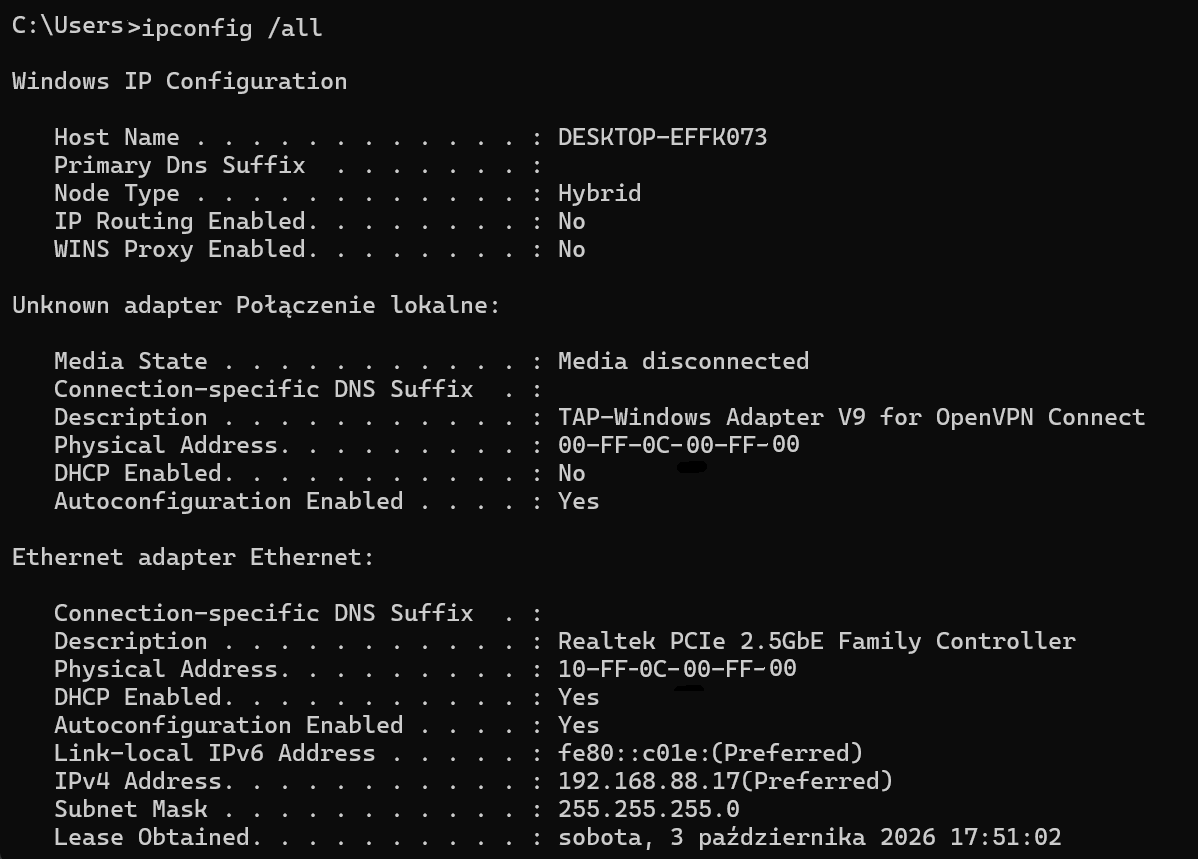
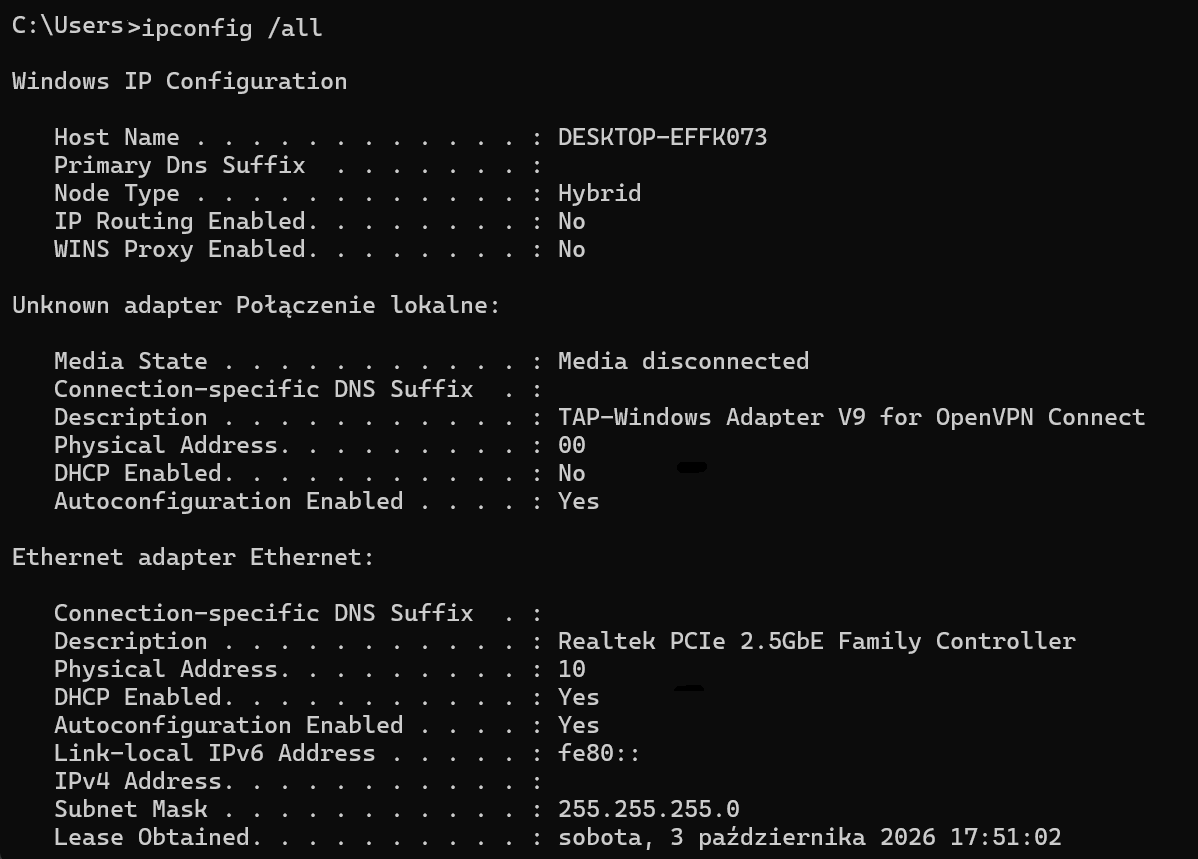
lab3 - v2

Changed region(s): [[0.4633, 0.8475, 0.7412, 0.9383], [0.4942, 0.7567, 0.6795, 0.787], [0.4942, 0.5146, 0.6795, 0.5448]]

diff --git a/docs/cwiczenie-03.md b/docs/cwiczenie-03.md
@@ -124,8 +124,9 @@ Rys.2 Mechanizm wykorzystania bramy domyślnej [^comer][^claude]
 
 ---
 
-**ICMP (Internet Control Message Protocol)** to protokół towarzyszący IP, zdefiniowany w RFC 792 [^RFC792], służący do przesyłania komunikatów kontrolnych i błędów, a nie danych użytkownika. ICMP nie ma portów ani sesji, komunikaty ICMP są zwykle generowane automatycznie przez stos sieciowy w reakcji na problem z dostarczeniem pakietu IP.
+**ICMP (Internet Control Message Protocol)** to protokół towarzyszący IP, zdefiniowany w RFC 792 [^RFC792], służący do przesyłania komunikatów kontrolnych i błędów, a nie danych użytkownika. ICMP nie ma portów ani sesji, komunikaty ICMP są zwykle generowane automatycznie przez stos sieciowy w reakcji na problem z dostarczeniem pakietu IP (Tabela 1).
 
+Tab. 1 Komunikaty ICMP
 | Typ     | Nazwa     | Zastosowanie |
 |---------|---------|-----------------------|
 | 0/8       | Echo Reply/Echo Request    | polecenie **ping** - sprawdzenie osiągalności hosta             |
@@ -182,7 +183,7 @@ A8<sub>16</sub> = 10 · 16<sup>1</sup> + 8 · 16<sup>0</sup> = 160 + 8 = 168
 <StepByStep>
 
 <Step title="Odczytanie konfiguracji IP">
-Sprawdź aktualną konfigurację adresu IP, maski i bramy domyślnej swojej stacji (adres 10.114.202.x - Ethernet0) (Rysunek 3). Wykorzystując polecenie w **Wierszu poleceń** (Start ⇒ Wyszukaj programy i pliki ⇒ cmd) i  wypełnij tabellę.
+Sprawdź aktualną konfigurację adresu IP, maski i bramy domyślnej swojej stacji (adres 10.x.x.x - Ethernet1) (Rysunek 3). Wykorzystując polecenie w **Wierszu poleceń** (Start ⇒ Wyszukaj programy i pliki ⇒ cmd) i wypełnij Tabelę 2.
 
 ```bash
 ipconfig /all
@@ -194,7 +195,7 @@ Rys.3 Komenda ipconfig
 </div>
 
 <EditableTable
-  title="Konfiguracja karty sieciowej"
+  title="Tab.2 Konfiguracja karty sieciowej"
   storageKey="tabela"
   columns={[
     {key: 'parametr', label: 'Parametr', readOnly: true},
@@ -267,9 +268,9 @@ Filtr wyświetlania: icmp
 Rys.6 Filtrowanie pakietów w Wireshark [^wireshark]
 </div>
 
-Kliknij dowolny pakiet, a następnie rozwiń w panelu szczegółów sekcję **Internet Protocol Version 4**.
+Kliknij dowolny pakiet, a następnie rozwiń w panelu szczegółów sekcję **Internet Protocol Version 4** i wypełnij poniższą Tabele 3.
 <EditableTable
-  title="Wpisz odpowiednie parametry z sekcji Internet Protocol Version 4"
+  title="Tab. 3 Parametry sekcji Internet Protocol Version 4"
   storageKey="tabela2"
   columns={[
     {key: 'parametr', label: 'Parametr', readOnly: true},
@@ -292,10 +293,6 @@ Kliknij dowolny pakiet, a następnie rozwiń w panelu szczegółów sekcję **In
 
 </Step>
 </StepByStep>
-
-:::danger Przywracanie domyślnej konfiguracji
-**ZAWSZE** po zakończonej pracy pozostaw stanowisko z domyślnymi ustawieniami.
-:::
 
 [^RFC791]: IETF, [RFC 791](https://www.rfc-editor.org/info/rfc791/) — Internet Protocol.
 
